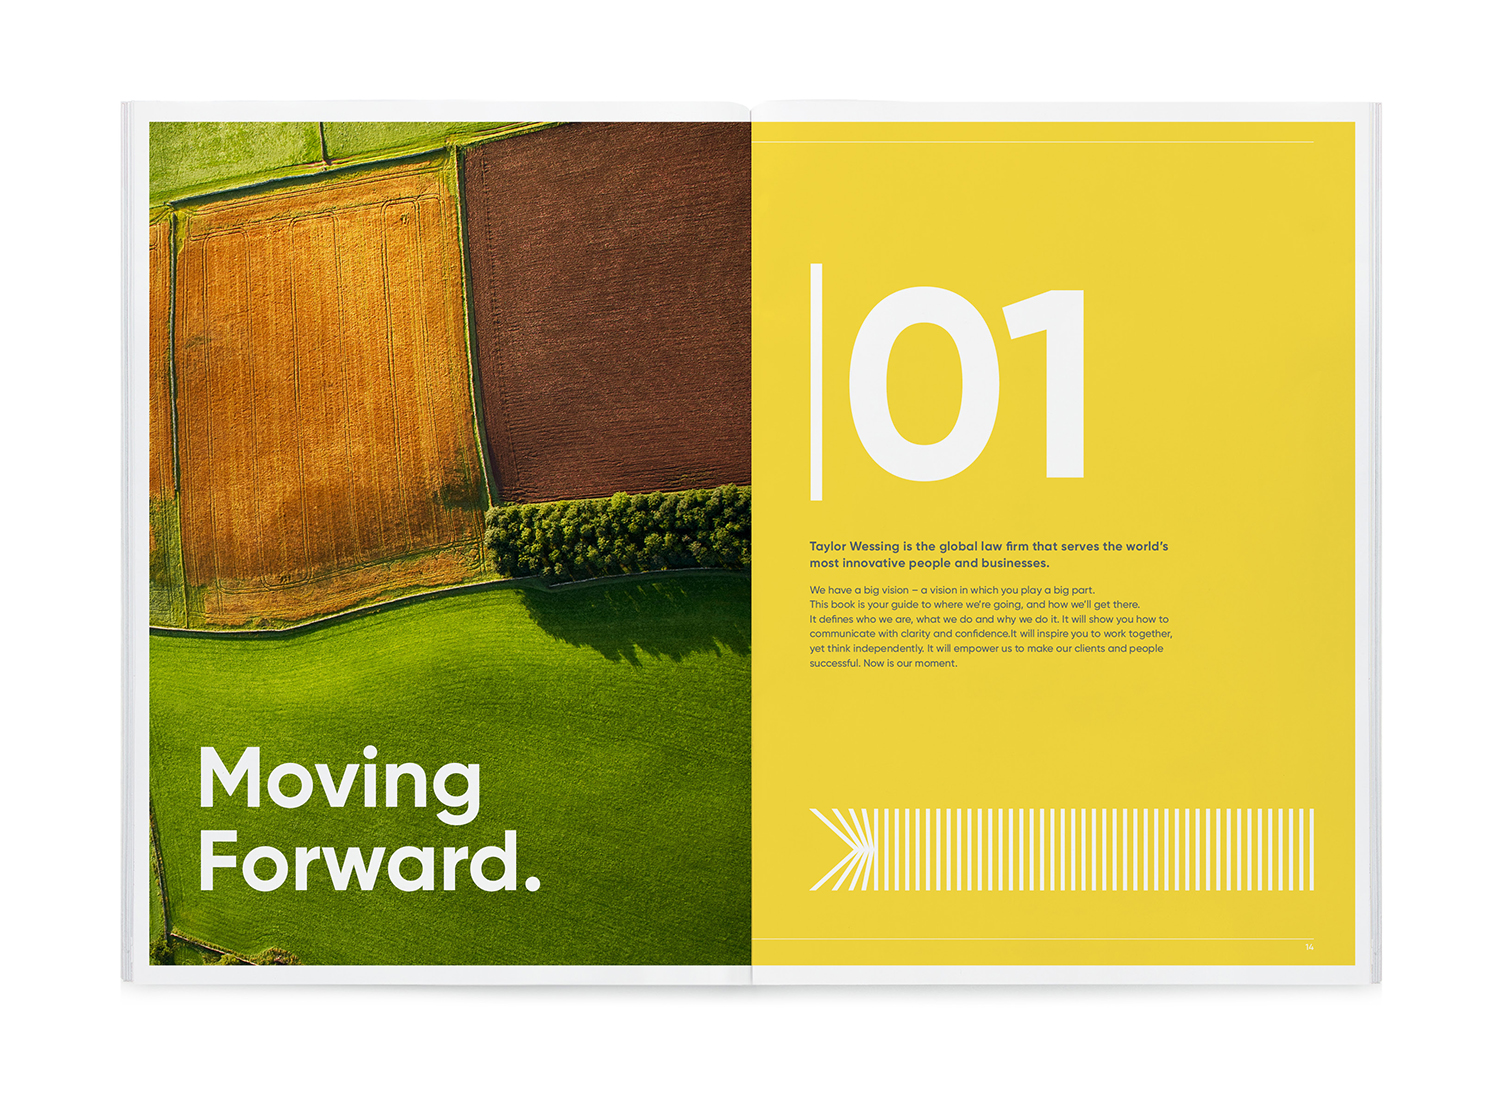
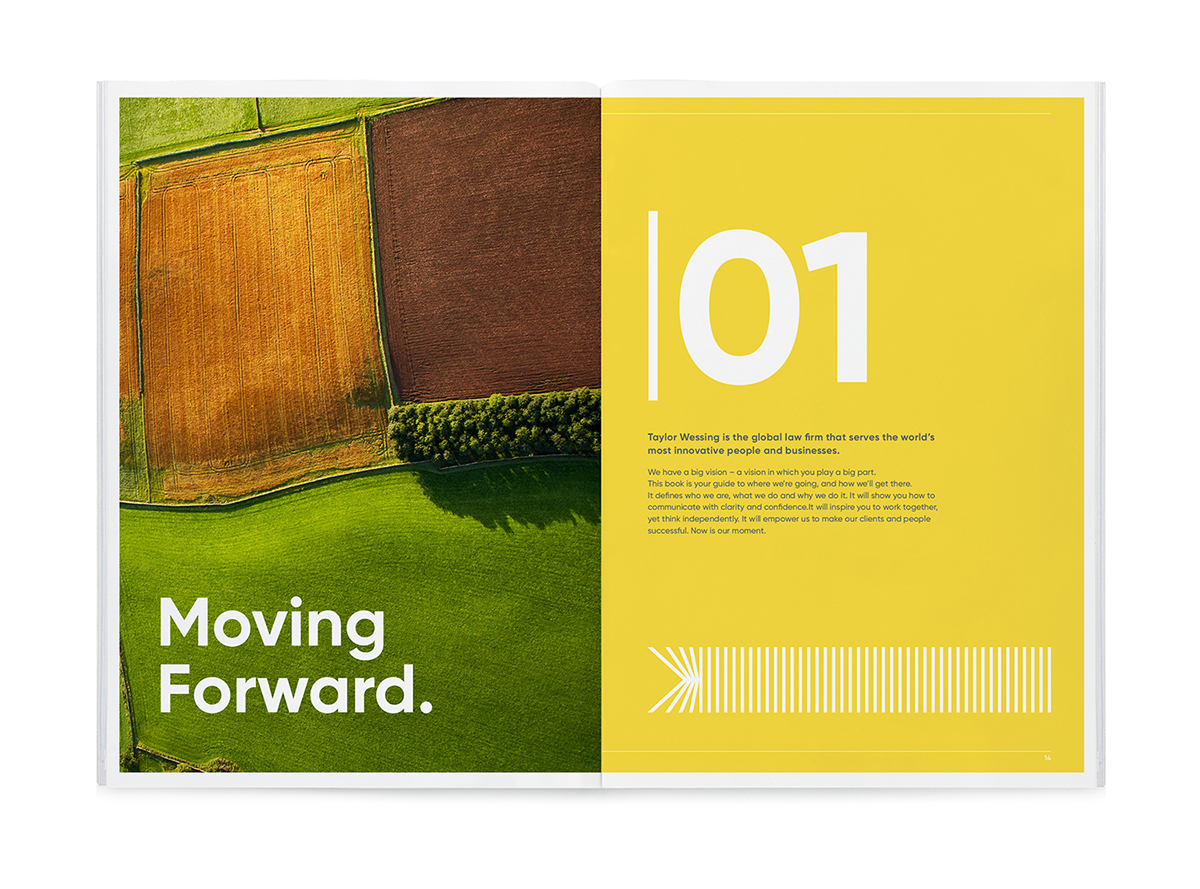
TW TWEAK

Changed region(s): [[0.555, 0.4859, 0.6783, 0.5163], [0.555, 0.7289, 0.5858, 0.7897]]

diff --git a/details/TW.html b/details/TW.html
@@ -165,7 +165,7 @@
 
 
         <div class="grid-100">
-            <img src="../images/detail/TW/gavinvanrood_TW_5.3.jpg" />
+            <img src="../images/detail/TW/gavinvanrood_TW_5.4.jpg" />
         </div>
         <div class="grid-50">
           <img src="../images/detail/TW/gavinvanrood_TW_1.jpg" />
